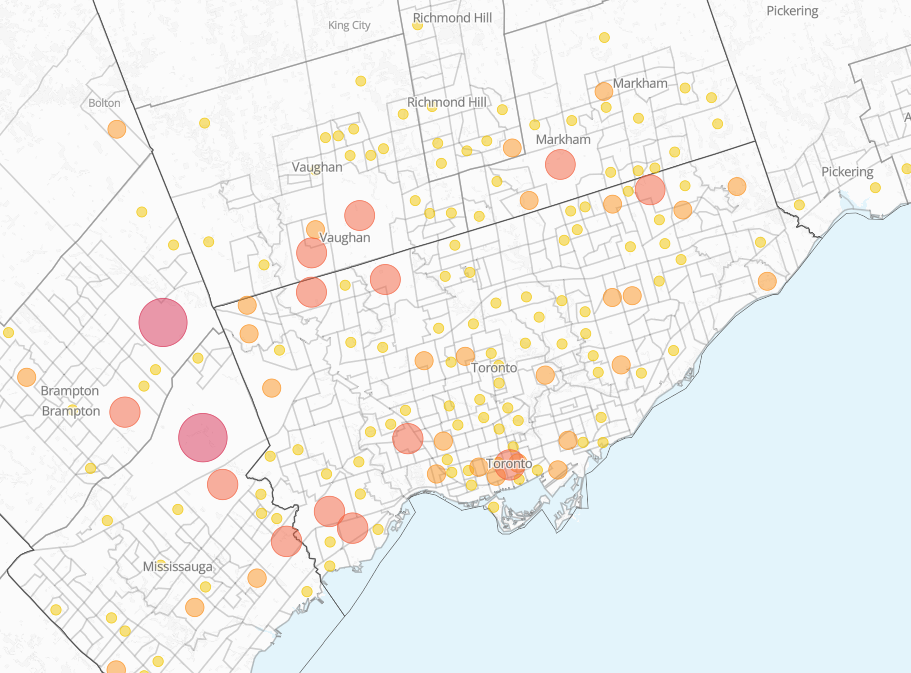
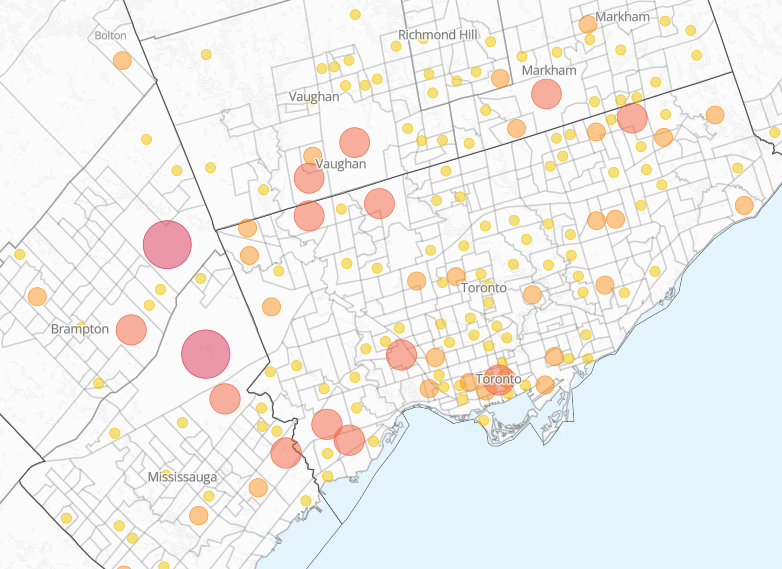
update: Section 338 updated to September 29 tariffs and excluded goods

diff --git a/src/routes/section-338/+page.svelte b/src/routes/section-338/+page.svelte
@@ -78,7 +78,7 @@
 			<a href='https://www.linkedin.com/in/yihoi-jung-0b95351b5/' target='_blank'>Yihoi Jung</a>,
 			<a href='https://jamaps.github.io/' target='_blank'>Jeff Allen</a>, 
 			"
-			date="September 9, 2026"
+			date="Updated: October 13, 2026"
 		/>
 	
 	</div>
@@ -86,16 +86,17 @@
 	<div class="text">	
 
 		<p>
-			After negotiators representing Canadian and U.S. governments were unable to reach a trade deal, the Trump administration moved to impose a raft of new tariffs on Canadian goods effective as of August 22, 2026. These new tariffs, exercised under Section 338 of the 1930 US Tariff Act, include a 50% tariff on a variety of goods, ranging from honey to hockey sticks, including goods previously exempt due to their compliance with CUSMA. In response to these mounting tariffs, the Government of Canada has introduced counter-tariffs that went into effect on September 8, 2026. 
+			After negotiators representing Canadian and U.S. governments were unable to reach a trade deal in August 2026, the Trump administration moved to impose a raft of new tariffs on Canadian goods effective as of August 22, 2026. These new tariffs, exercised under Section 338 of the 1930 US Tariff Act, include a 50% tariff on a variety of goods, ranging from honey to hockey sticks, including goods previously exempt due to their compliance with CUSMA. In response to these mounting tariffs, the Government of Canada has introduced counter-tariffs that went into effect on September 8, 2026. 
+			The following day, the Trump administration made <a href="https://www.whitehouse.gov/presidential-actions/2026/07/imposing-additional-duties-to-offset-canadian-discrimination-against-the-commerce-of-the-united-states-with-respect-to-motor-vehicles/">five additional proclamations</a> related to tariffs that went into effect on September 29, 2026.
 		</p>
 
 
 		<p>	
-			Even though Canada-U.S. trade relations continue to worsen after the collapse of recent trade talks, the Canadian economy remains deeply integrated with the U.S. economy. Statistics Canada reports that, in 2025, U.S.-Canada trade includes $562.7 billion in exports and $361.8 billion in imports. And while the United States is still Canada’s largest trading partner, there is evidence that this may be slowly shifting. Between 2024 and 2025, the proportion of exports from Canada to the United States decreased from 76.3% to 72.3%. Similarly, the proportion of imports accounted for by the United States declined from 49.2% in 2024 to 45.9% in 2025. These shifts in the relative importance of the U.S. market are likely indicators of the efforts of Canadian businesses and governments to mitigate the potential fallout from tariffs. These efforts have included extensive “buy local” and “buy Canadian” campaigns, shifts in procurement and spending patterns, the diversification of supply chains, and attempts to reach wider, global markets.		
+			Even though Canada-U.S. trade relations continue to worsen after the collapse of recent trade talks, the Canadian economy remains deeply integrated with the U.S. economy. Statistics Canada <a href="https://www150.statcan.gc.ca/n1/pub/71-607-x/71-607-x2019005-eng.htm">reports</a> that, in 2025, U.S.-Canada trade includes $562.7 billion in exports and $361.8 billion in imports. And while the United States is still Canada’s largest trading partner, there is evidence that this may be slowly shifting. Between 2024 and 2025, the proportion of exports from Canada to the United States decreased from 76.3% to 72.3%. Similarly, the proportion of imports accounted for by the United States declined from 49.2% in 2024 to 45.9% in 2025. These shifts in the relative importance of the U.S. market are likely indicators of the efforts of Canadian businesses and governments to mitigate the potential fallout from tariffs. These efforts have included extensive “buy local” and “buy Canadian” campaigns, shifts in procurement and spending patterns, the diversification of supply chains, and attempts to reach wider, global markets.		
 		</p>
 
 		<p>	
-			Since we released <a href="https://mappingtariffs.org/">Mapping Tariffs</a> in October 2025, we have been tracking the potential vulnerability of Canadian cities and neighbourhoods to U.S. tariffs. The newest round of tariffs imposed by the Trump administration represents a significant escalation in the ongoing trade dispute between Canada and the United States. Therefore, we ask: Which places will be most vulnerable to new Section 338 tariffs? And, how has the tariff vulnerability landscape for Canadian cities changed, given the more expansive list of goods that are subject to tariffs?		
+			Since we released <a href="https://mappingtariffs.org/">Mapping Tariffs</a> in October 2025, we have been tracking the potential vulnerability of Canadian cities and neighbourhoods to U.S. tariffs. The newest round of tariffs imposed by the Trump administration represents a significant escalation in the ongoing trade dispute between Canada and the United States. Therefore, we ask: Which places will be most vulnerable to Section 338 tariffs? And, how has the tariff vulnerability landscape for Canadian cities changed, given the more expansive list of goods that are subject to tariffs and/or are excluded from import to the United States?		
 		</p>
 
 		<p>	
@@ -104,10 +105,13 @@
 
 		<ul>
 			<li>
-				Additional layers reflecting the new Section 338 tariffs, based on three separate orders made by the Trump administration on <a href="https://www.whitehouse.gov/presidential-actions/2026/07/imposing-additional-duties-to-offset-canadian-discrimination-against-the-commerce-of-the-united-states-with-respect-to-dairy/">dairy</a>, <a href="https://www.whitehouse.gov/presidential-actions/2026/07/imposing-additional-duties-to-offset-canadian-discrimination-against-the-commerce-of-the-united-states-with-respect-to-alcoholic-beverages/">alcohol</a>, and <a href="https://www.whitehouse.gov/presidential-actions/2026/07/imposing-additional-duties-to-offset-canadian-discrimination-against-the-commerce-of-the-united-states-with-respect-to-motor-vehicles/">motor vehicles</a> (although we note, as do <a href="https://www.cfib-fcei.ca/en/site/us-tariffs">others</a>, that the motor vehicles tariffs target an extensive range of goods that are completely unrelated to motor vehicles); and
+				Additional layers reflecting the Section 338 tariffs (as of September 29, 2026), based on the three original orders made by the Trump administration on <a href="https://www.whitehouse.gov/presidential-actions/2026/07/imposing-additional-duties-to-offset-canadian-discrimination-against-the-commerce-of-the-united-states-with-respect-to-dairy/">dairy</a>, <a href="https://www.whitehouse.gov/presidential-actions/2026/07/imposing-additional-duties-to-offset-canadian-discrimination-against-the-commerce-of-the-united-states-with-respect-to-alcoholic-beverages/">alcohol</a>, and <a href="https://www.whitehouse.gov/presidential-actions/2026/07/imposing-additional-duties-to-offset-canadian-discrimination-against-the-commerce-of-the-united-states-with-respect-to-motor-vehicles/">motor vehicles</a> (although we note, as do <a href="https://www.cfib-fcei.ca/en/site/us-tariffs">others</a>, that the motor vehicles tariffs target an extensive range of goods that are completely unrelated to motor vehicles) and incorporating the five subsequent orders, which revised the list of goods included in the dairy, alcohol and motor vehicles orders and excluded certain dairy and alcohol products;
 			</li>
 			<li>
-				Updates to the overall potential impacts of tariffs before and after the imposition of the Section 338 tariffs effective August 22, 2026.
+				New layers that differentiate between goods that are tariffed or excluded from import to the US under Section 338; and 
+			</li>
+			<li>
+				Updates to the overall potential impacts of tariffs before and after the imposition of the Section 338 tariffs effective September 29, 2026.
 			</li>
 		</ul>
 
@@ -116,12 +120,12 @@
 		<p>
 			Overall, we observe deepening and widening vulnerabilities to U.S. tariffs measured by businesses and employment (based on place of work and place of residence). 
 			To illustrate how the newest round of tariffs may impact Canadian cities and regions, we begin with a map showing the overall vulnerability to tariffs across Canada
-			 <i>before</i> the introduction of the new Section 338 tariffs on August 22, 2026 as measured by employment. 
+			 <i>before</i> the introduction of any Section 338 tariffs as measured by employment. 
 		</p>
 
 		<ImageSingle
 			imageURL="./images/before_employment_work.png"
-			caption='Potential direct tariff exposure to employment (place of work) in Canada due to tariffs before August 22, 2026'
+			caption='Potential direct tariff exposure to employment (place of work) in Canada prior to the introduction of Section 338 tariffs'
 			source='<br><a href="./map">Click here to view interactive map</a>'
 			maxWidth='680px'
 			link='No'
@@ -133,19 +137,41 @@
 		</p>
 
 		<ImageSingle
-			imageURL="./images/after_employment_work.png"
-			caption='Potential direct tariff exposure to employment (place of work) in Canada due to tariffs after August 22, 2026'
+			imageURL="./images/employment_work_sep_29.png"
+			caption='Potential direct tariff exposure to employment (place of work) in Canada due to tariffs after September 29, 2026'
 			source='<br><a href="./map">Click here to view interactive map</a>'
 			maxWidth='680px'
 			link='No'
 		/>
 
 		<p>
-			As we observed when we first released the <a href="https://mappingtariffs.org/">Mapping Tariffs</a> project, almost every city, community, and neighbourhood is vulnerable to tariffs. And, given that the new tariffs cover a range of economic activities, there is a deepening of vulnerabilities, especially in places specializing in manufacturing. For example, the map shows that while there are widespread vulnerabilities to workers, there are greater vulnerabilities in the Greater Golden Horseshoe due to the higher concentration of manufacturing industries in Canada’s industrial heartland.		
+			As we observed when we first released the <a href="https://mappingtariffs.org/">Mapping Tariffs</a> project, almost every city, community, and neighbourhood is vulnerable to tariffs. And, given that the new tariffs (and bans) cover a range of economic activities, there is a deepening of vulnerabilities, especially in places specializing in manufacturing. For example, the map shows that while there are widespread vulnerabilities to workers, there are greater vulnerabilities in the Greater Golden Horseshoe due to the higher concentration of manufacturing industries in Canada’s industrial heartland.		
 		</p>
 
+
+		<h2>
+			Product bans under Section 338
+		</h2>
+
 		<p>
-			Overall, our updated results continue to underscore the localized impacts of this new round of tariffs. We now turn to examining some of the specific potential impacts related to each of the three separate proclamations made by the Trump administration.
+			The most recent developments in the ongoing trade dispute between the US and Canada means that there are now specific goods related to alcohol and dairy (alongside motorcycles) that are completely banned from import to the US. 
+			Given that these businesses have lost access to the US market, we pay particular attention to the communities and neighbourhoods that are most directly vulnerable to this change. 
+			The map below shows the overall vulnerability to businesses due to import bans imposed by the Trump administration. 
+			Our results emphasize that cities and communities large and small are vulnerable to this newest trade tactic. 
+			Particularly notable are vulnerabilities across southern British Columbia (where wineries are a mainstay of employment), rural Quebec (where the dairy industry plays an important role) and parts of Ontario and Quebec, the industrial heartland of Canada. 
+		</p>
+
+		<ImageSingle
+			imageURL="./images/excluded.png"
+			caption='Potential direct exposure to businesses across Canada due to import bans as of September 29, 2026'
+			source='<br><a href="./map">Click here to view interactive map</a>'
+			maxWidth='680px'
+			link='No'
+		/>
+
+		<p>
+			Overall, our updated results (as of September 29, 2026) continue to underscore the localized impacts of these new rounds of tariffs and bans. 
+			We now turn to examining some of the specific potential impacts related to tariffs (including bans) made by the Trump administration for alcohol, dairy, and motor vehicles respectively.
 		</p>
 
 		<h2>
@@ -153,12 +179,12 @@
 		</h2>
 
 		<p>
-			Tariffs may have a significant impact on wine-producing regions across Canada. For example, the map below shows the potential impact of tariffs on the Okanagan wine region, surrounding the City of Kelowna. Wine-making represents an important economic and tourism sector for the Okanagan region, and wineries export to the U.S. and other markets. 
+			Tariffs may have a significant impact on wine-producing regions across Canada. For example, the map below shows the potential impact of Section 338-related tariffs on the Okanagan wine region, surrounding the City of Kelowna. Wine-making represents an important economic and tourism sector for the Okanagan region, and wineries export to the U.S. and other markets. 
 		</p>
 
 		<ImageSingle
 			imageURL="./images/alcohol.png"
-			caption='Potential direct tariff exposure to businesses in the Okanagan Valley due to alcohol-related tariffs'
+			caption='Potential direct exposure to businesses in the Okanagan Valley due to alcohol-related tariffs and excluded goods as of September 29, 2026'
 			source='<br><a href="./map">Click here to view interactive map</a>'
 			maxWidth='680px'
 			link='No'
@@ -170,7 +196,15 @@
 
 		<ImageSingle
 			imageURL="./images/alcohol_2.png"
-			caption='Potential direct tariff exposure to businesses in southern Ontario due to alcohol-related tariffs'
+			caption='Potential direct exposure to businesses in the Prince Edward County region due to alcohol-related tariffs and excluded goods as of September 29, 2026'
+			source='<br><a href="./map">Click here to view interactive map</a>'
+			maxWidth='680px'
+			link='No'
+		/>
+
+		<ImageSingle
+			imageURL="./images/alcohol_3.png"
+			caption='Potential direct exposure to employment (Place of Work) in the Niagara region due to alcohol-related tariffs and excluded goods as of September 29, 2026'
 			source='<br><a href="./map">Click here to view interactive map</a>'
 			maxWidth='680px'
 			link='No'
@@ -186,7 +220,7 @@
 
 		<ImageSingle
 			imageURL="./images/dairy.png"
-			caption='Potential direct exposure to businesses in Sherbrooke and the Eastern Townships due to dairy tariffs'
+			caption='Potential direct exposure to businesses in Sherbrooke and the Eastern Townships due to dairy tariffs and excluded goods as of September 29, 2026'
 			source='<br><a href="./map">Click here to view interactive map</a>'
 			maxWidth='680px'
 			link='No'
@@ -198,7 +232,7 @@
 
 		<ImageSingle
 			imageURL="./images/dairy_2.png"
-			caption='Potential direct exposure to businesses in Toronto due to dairy tariffs'
+			caption='Potential direct exposure to businesses in Toronto due to dairy tariffs and excluded goods as of September 29, 2026'
 			source='<br><a href="./map">Click here to view interactive map</a>'
 			maxWidth='680px'
 			link='No'
@@ -217,7 +251,7 @@
 
 		<ImageSingle
 			imageURL="./images/motor_vehicle.png"
-			caption='Potential direct tariff exposure to businesses in southern Ontario due to motor vehicle tariffs'
+			caption='Potential direct tariff exposure to businesses in southern Ontario due to motor vehicle tariffs and excluded goods as of September 29, 2026'
 			source='<br><a href="./map">Click here to view interactive map</a>'
 			maxWidth='680px'
 			link='No'
@@ -238,7 +272,10 @@
 		<br><br>
 
 		<p>
-			<b><i>Note:</i></b> At time of publication, the Trump administration had just made <a href="https://www.whitehouse.gov/presidential-actions/2026/07/imposing-additional-duties-to-offset-canadian-discrimination-against-the-commerce-of-the-united-states-with-respect-to-motor-vehicles/">five additional proclamations</a> related to tariffs. Three of these proclamations exclude certain dairy and alcohol related goods, as well as motorcycles, from being imported into the United States from Canada. The other two proclamations modify (through additions or subtractions) the lists of goods subject to tariffs under the motor vehicle and alcohol proclamations. All excluded goods are accounted for in our new Section 338 map layers, but we cannot currently distinguish between goods that are subject to tariffs and those that are completely excluded from export to the US. We have not yet updated the Section 338 tariffs to include the additions and subtractions. And we have not yet conducted analysis to account for <a href="https://www.canada.ca/en/department-finance/news/2026/08/list-of-products-from-the-united-states-subject-to-counter-tariffs-effective-september-8-2026.html">Canada’s counter-tariffs</a>.
+			<b><i>Note:</i></b> This article and our mapping and city-ranking visualization tools have been updated to account for the Trump administration's <a href="https://www.whitehouse.gov/presidential-actions/2026/07/imposing-additional-duties-to-offset-canadian-discrimination-against-the-commerce-of-the-united-states-with-respect-to-motor-vehicles/">additional proclamations</a> related to tariffs in response to Canadian counter-tariffs. 
+			Three of these proclamations exclude certain dairy and alcohol related goods, as well as motorcycles, from being imported into the United States from Canada. 
+			The other two proclamations modify (through additions or subtractions) the lists of goods subject to tariffs under the motor vehicle and alcohol proclamations. 
+			We have not yet conducted analysis to account for <a href="https://www.canada.ca/en/department-finance/news/2026/08/list-of-products-from-the-united-states-subject-to-counter-tariffs-effective-september-8-2026.html">Canada’s counter-tariffs</a>.
 		</p>
 			
 	</div>
